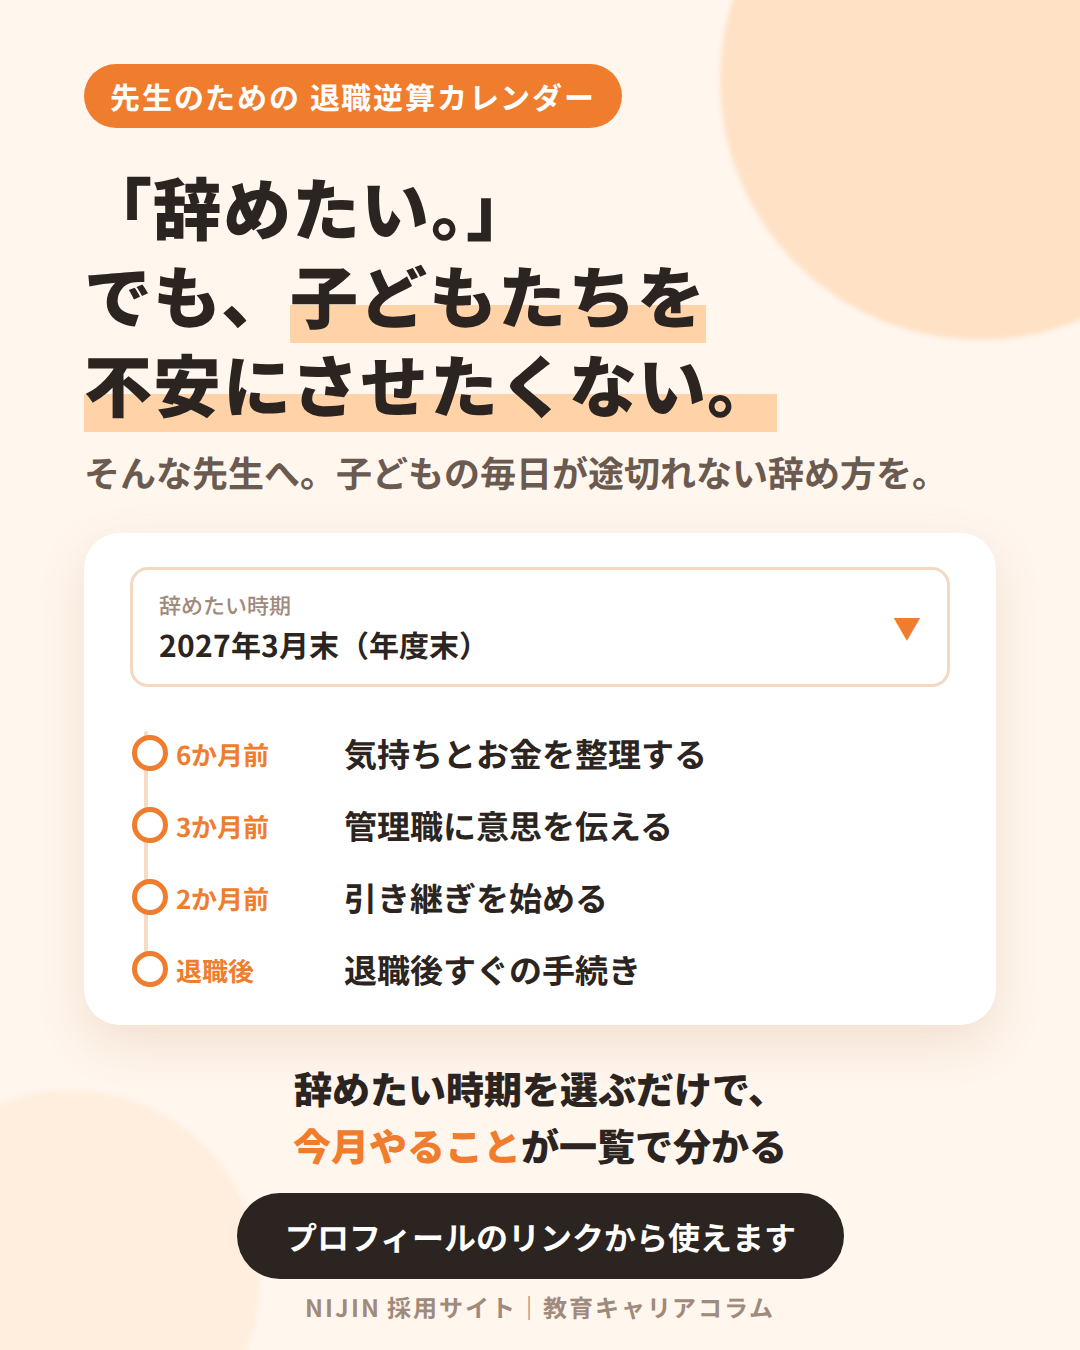
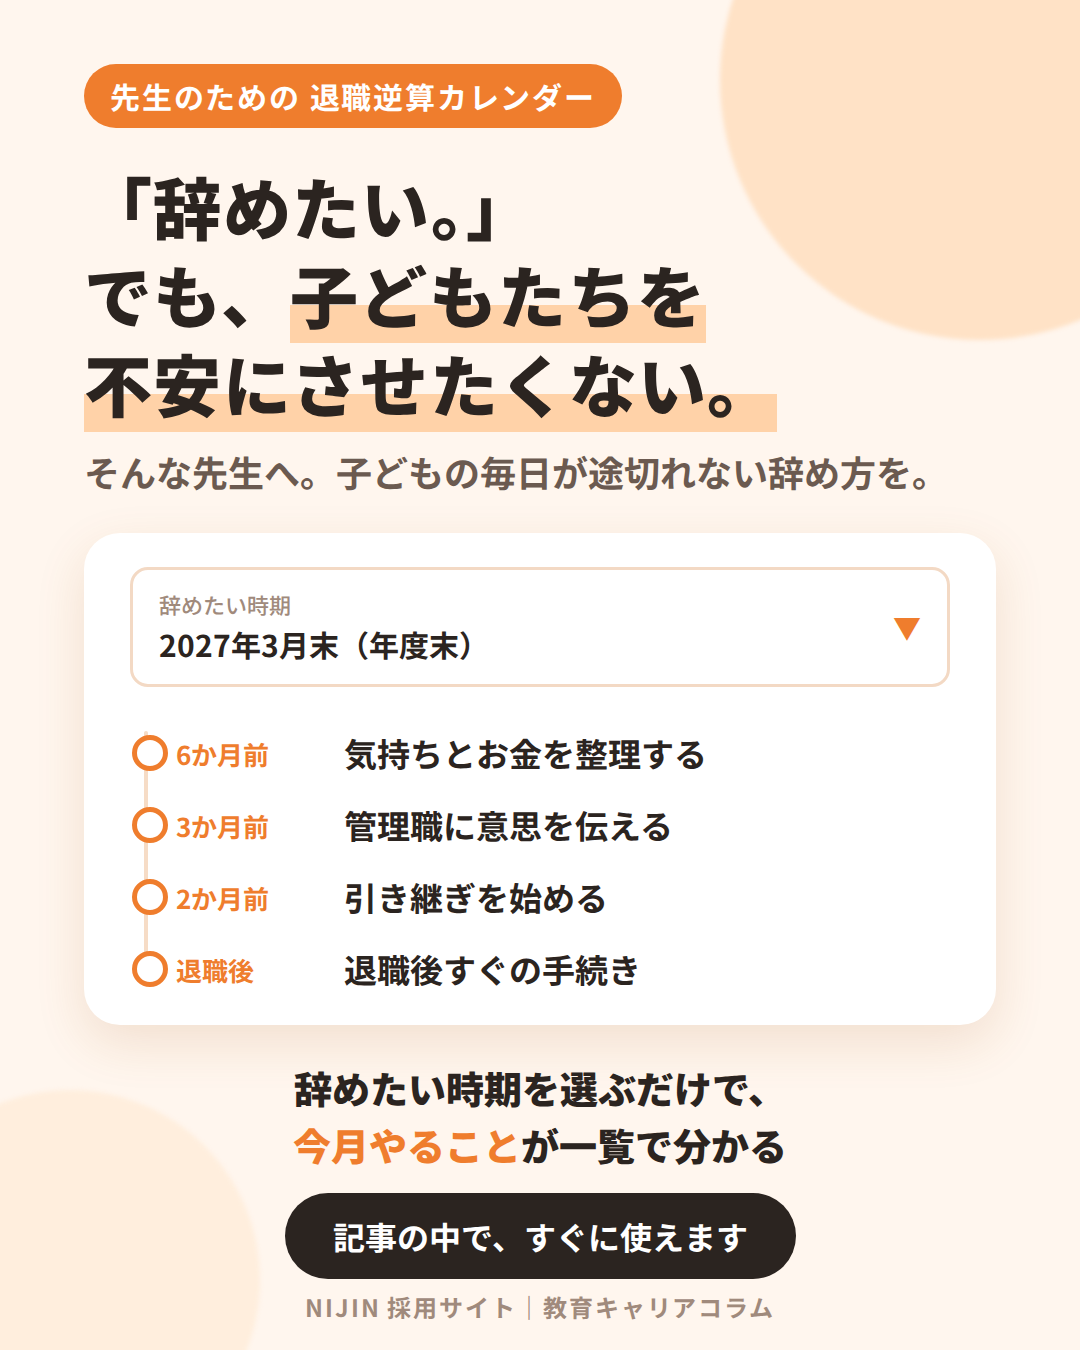
SNS画像のボタン文言をThreads向けに変更
Claude-Session: https://claude.ai/code/session_01AXtM82vCWz4Faxv39SeV3B

Changed region(s): [[0.2139, 0.8711, 0.7944, 0.9644]]

diff --git a/site/recruit/sns/taishoku-calendar-post.html b/site/recruit/sns/taishoku-calendar-post.html
@@ -49,7 +49,7 @@ body{width:1080px;height:1350px;background:#fff6ee;font-family:"Noto Sans JP","I
 
   <div class="cta">
     <p>辞めたい時期を選ぶだけで、<br><b>今月やること</b>が一覧で分かる</p>
-    <span class="pill">プロフィールのリンクから使えます</span>
+    <span class="pill">記事の中で、すぐに使えます</span>
   </div>
 </div>
 <div class="foot">NIJIN 採用サイト｜教育キャリアコラム</div>
